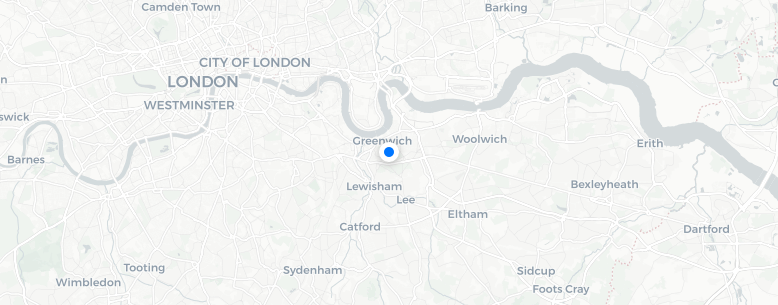
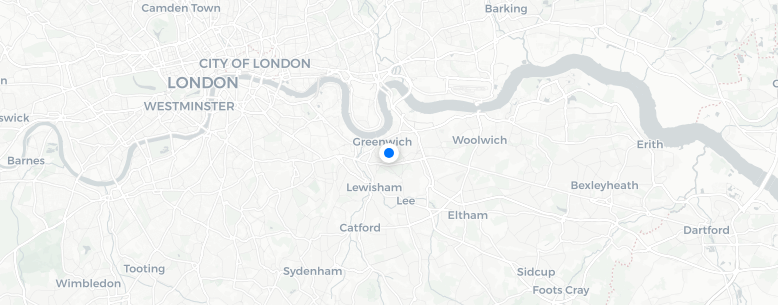
Change SVG load method

diff --git a/ui_engine.py b/ui_engine.py
@@ -2,9 +2,9 @@ from PyQt5.QtWidgets import QLabel, QFrame, QSizePolicy, QApplication, QPushButt
 from PyQt5.QtGui import QFont, QFontDatabase, QPixmap, QRegion, QPainterPath
 from PyQt5 import QtWidgets
 from PyQt5.QtCore import Qt, pyqtSignal
+from PyQt5.QtSvg import QSvgWidget
 from system import *
 from html2image import Html2Image
-import cairosvg
 import os
 
 
@@ -116,7 +116,7 @@ def poppins(weight):
 def text(text, color, font, size=20, parent=None, padding=0):
     value = 96/get_dpi()
     label = QLabel(text, parent)
-    label.setFont(QFont(font, size*value))
+    label.setFont(QFont(font, int(size*value)))
     label.setStyleSheet(f"color: {color}; padding-left:{padding}")
     
     if parent:
@@ -126,13 +126,10 @@ def text(text, color, font, size=20, parent=None, padding=0):
     return label
 
 def svg(path, width, height):
-    data = cairosvg.svg2png(url=path, output_width=width, output_height=height)
-    pixmap = QPixmap()
-    pixmap.loadFromData(data)
-    icon_label = QLabel()
-    icon_label.setFixedSize(width, height)
-    icon_label.setPixmap(pixmap)
-    return icon_label
+    svg_widget = QSvgWidget(path)
+    svg_widget.setFixedSize(width, height)
+    return svg_widget
+    
 
 
 def get_map_preview(height, theme="light"):
